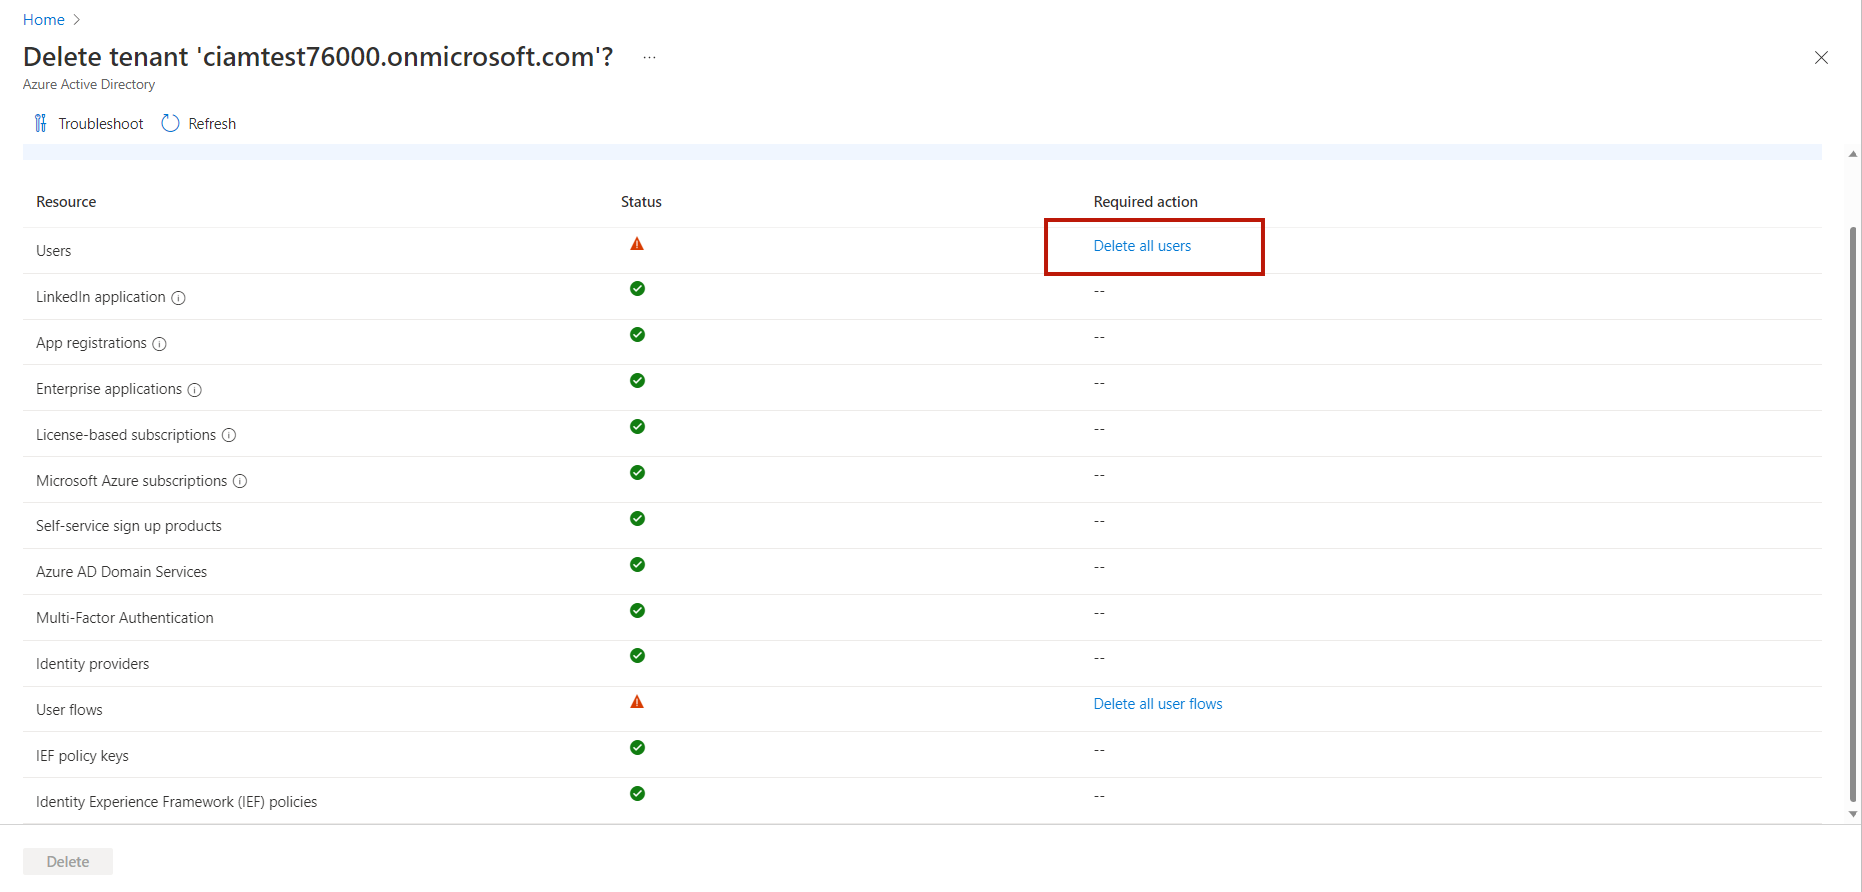
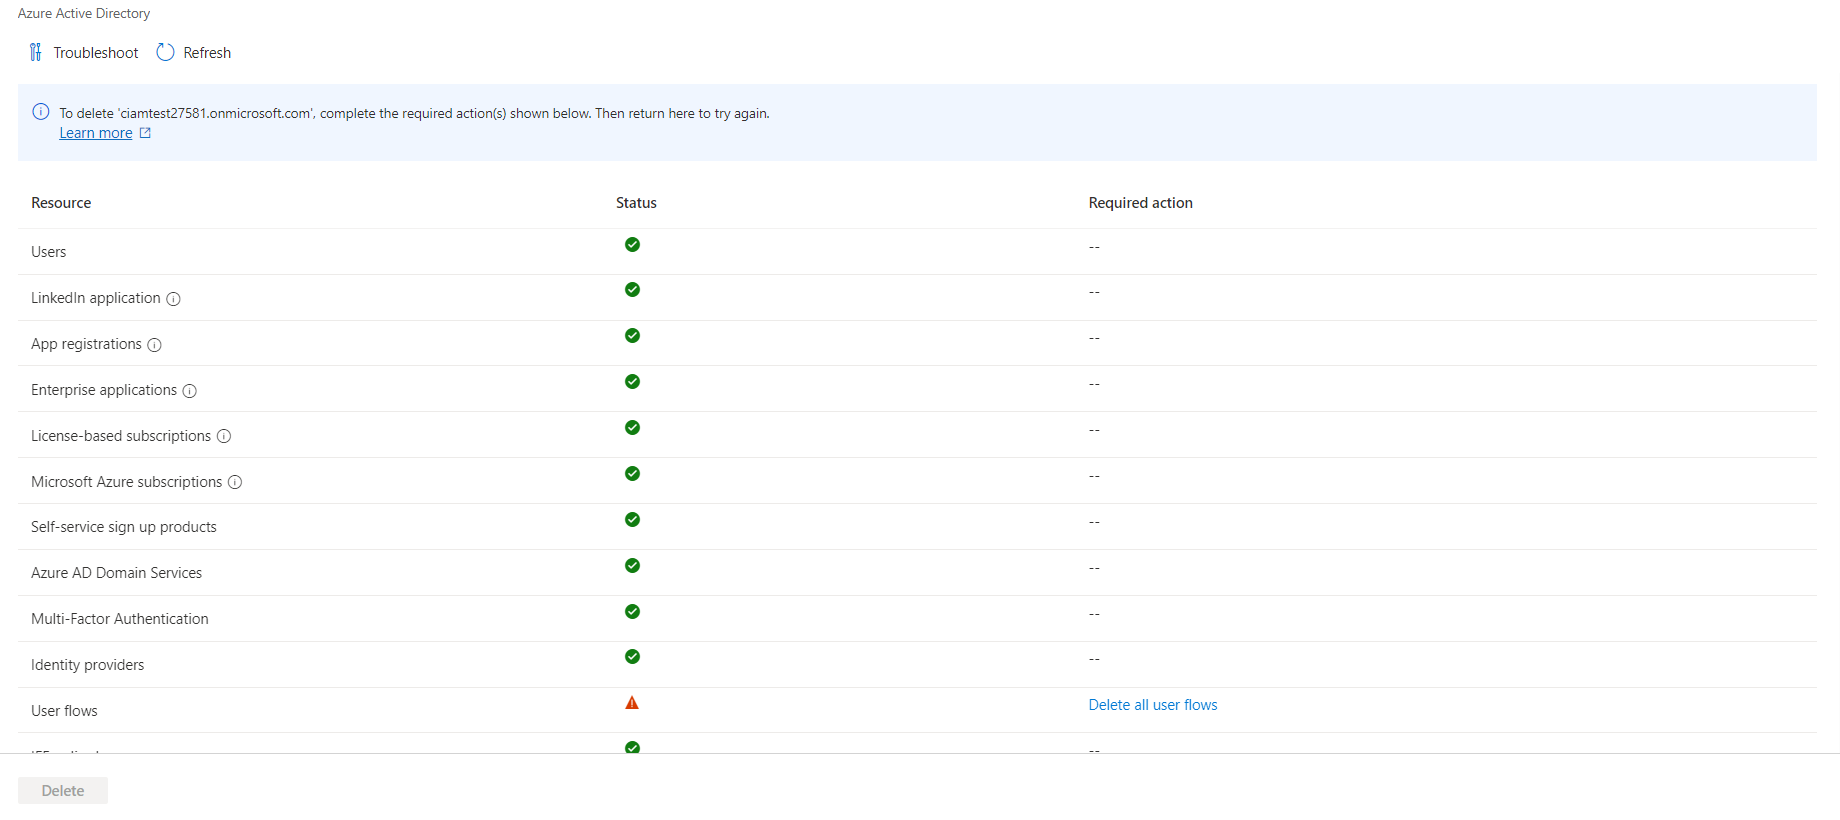
update with script: remove admin grant and manual delete users

diff --git a/CreationScript.md b/CreationScript.md
@@ -67,11 +67,6 @@ Now you have done the following work by script:
 1. Copy the link appeared in the PowerShell interface and visit that link through browser *(If you did not switch to the correspond tenant in the previous step, you are likely to meet problem in this step)*. Copy **Application (client) ID** and **Directory (tenant) ID** which are used in later steps.
 ![Screenshot](figure/application_information.png)
 
-1. In the **API permissions** tab under the application page, click **Grant admin consent {tenant domain}** button.
-![Screenshot](figure/grant_admin.png)
-After granting
-![Screenshot](figure/grant_status.png)
-
 1. You can use [Javascript sample appliation](https://github.com/Azure-Samples/ms-identity-javascript-tutorial/tree/main/1-Authentication/1-sign-in/App) to test functionality. Under **"ms-identity-javascript-tutorial\1-Authentication\1-sign-in\App"**, open **authConfig** file to replace the **Application (client) ID** and **Directory (tenant) ID** as figure showed.
 ![Screenshot](figure/configuration.png)
 
@@ -108,9 +103,8 @@ After granting
     You will You will encounter some errors due to the [issue2] but this script still works fine to achieve our goal.
     ![Screenshot](figure/service_principal_errors.png)
 
-1. After running the deletion script, all initial checks in the portal should pass except 'Users' & 'Users Flow' because of the [issue4] and [issue9]. Click **'Delete all users'** to manually delete all users except from the admin user.
+1. After running the deletion script, all initial checks in the portal should pass except 'Users' & 'Users Flow' because of the [issue4]. 
 ![Screenshot](figure/checking_list.png)
-![Screenshot](figure/manual_deletion_users.png)
 
 1. Back to the 'Deletion tenant' page and then click **Refresh** button. The **Delete** button will be activated after refreshing. You do not need to worry about the 'Delete all user flows' hint due to the [issue4]. Click **Delete** button to complete the last action to delete the tenant.
 ![Screenshot](figure/deletion_list.png)
@@ -249,8 +243,6 @@ References:
 1. [Bug 2175371: [Portal] Delete button bug in the portal - Boards (visualstudio.com)](https://identitydivision.visualstudio.com/Engineering/_workitems/edit/2175371)
 1. [Bug 2175385: [Branding] No image removal PowerShell - Boards (visualstudio.com)](https://identitydivision.visualstudio.com/Engineering/_workitems/edit/2175385)
 1. [Bug 2181319: [Branding PowerShell] API / PowerShell invalid when try to upload the background image - Boards (visualstudio.com)](https://identitydivision.visualstudio.com/Engineering/_workitems/edit/2181319)
-1. [Bug 2181718: [Delete Users PowerShell] No reasonable/easy way to delete users in the tenant through PowerShell - Boards (visualstudio.com)](https://identitydivision.visualstudio.com/Engineering/_workitems/edit/2181718)
-1. [Bug 2181789: [Grant Admin PowerShell] No reasonable/easy way to grant admin consent for tenant through PowerShell - Boards (visualstudio.com)](https://identitydivision.visualstudio.com/Engineering/_workitems/edit/2181789)
 1. [Bug 2175410: [PowerShell] Currently only APIs no PowerShell command lines - Boards (visualstudio.com)](https://identitydivision.visualstudio.com/Engineering/_workitems/edit/2175410)
 
 
